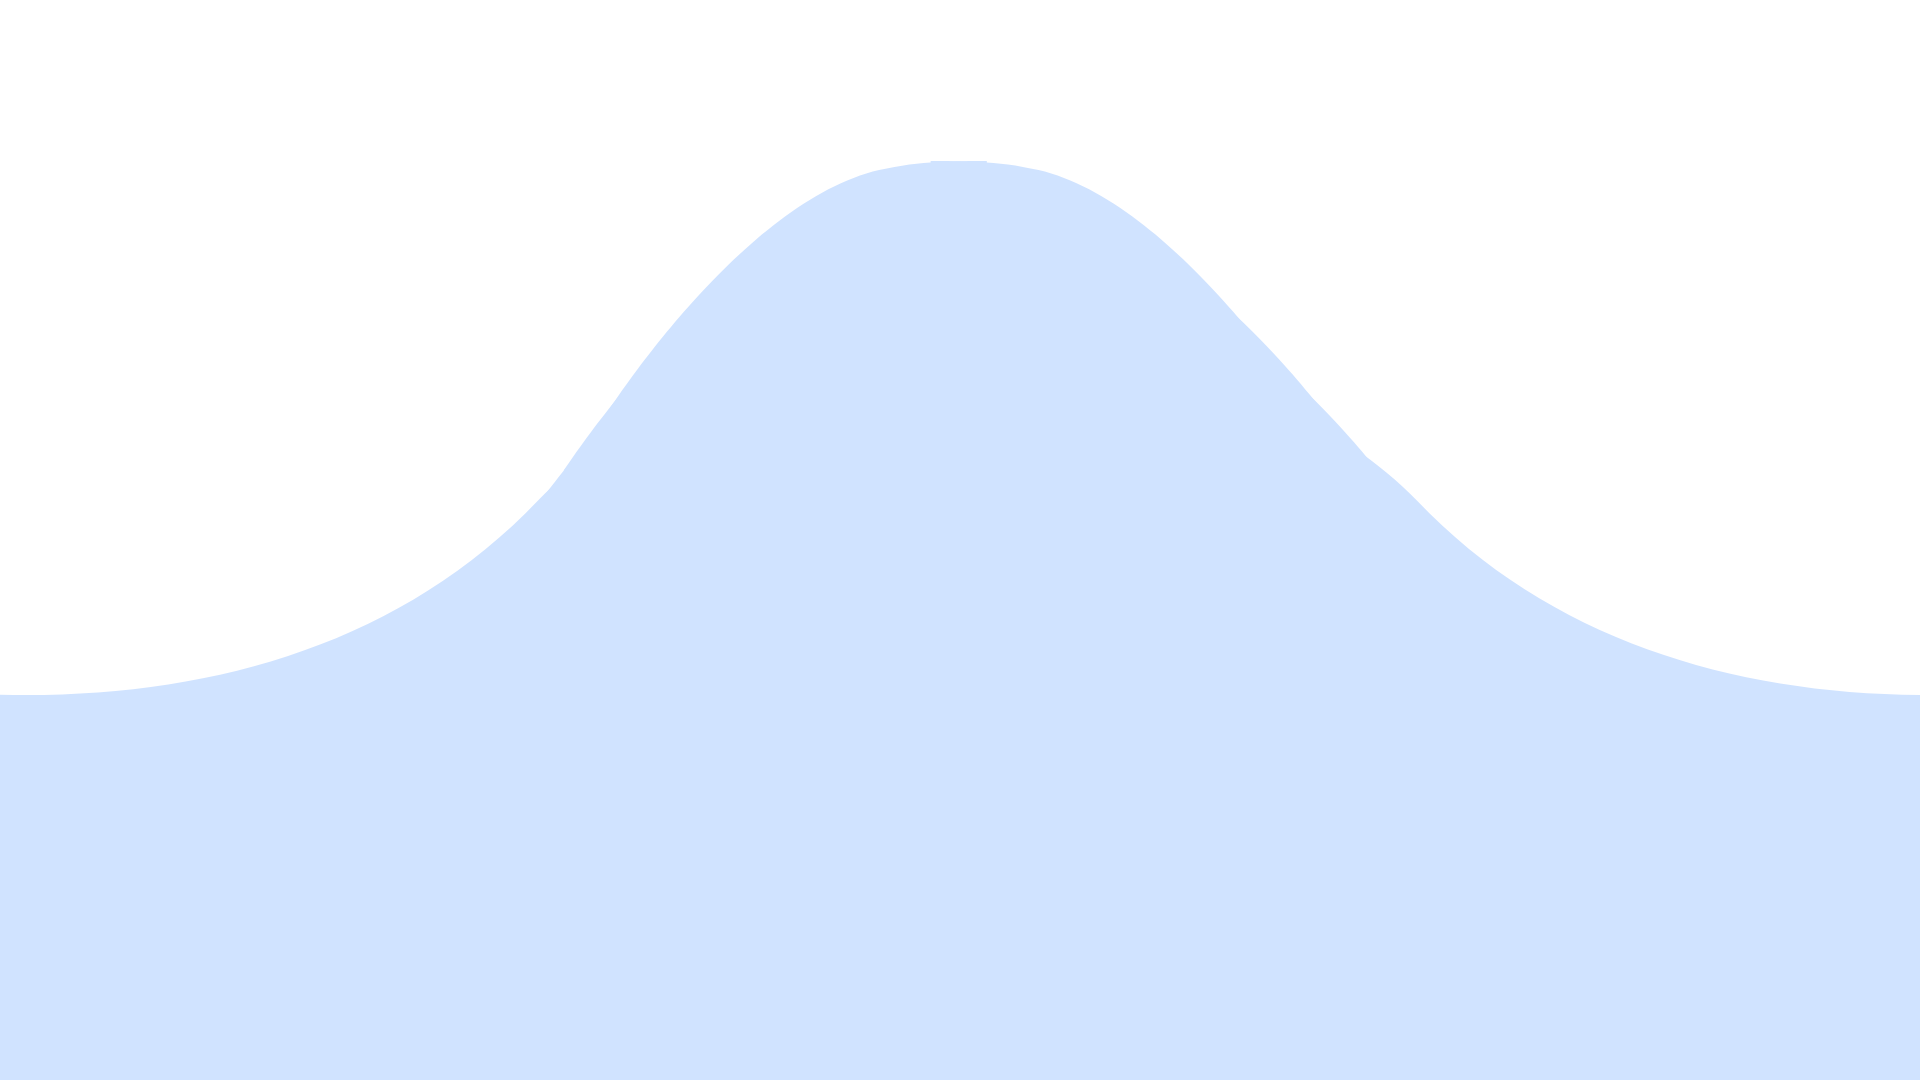
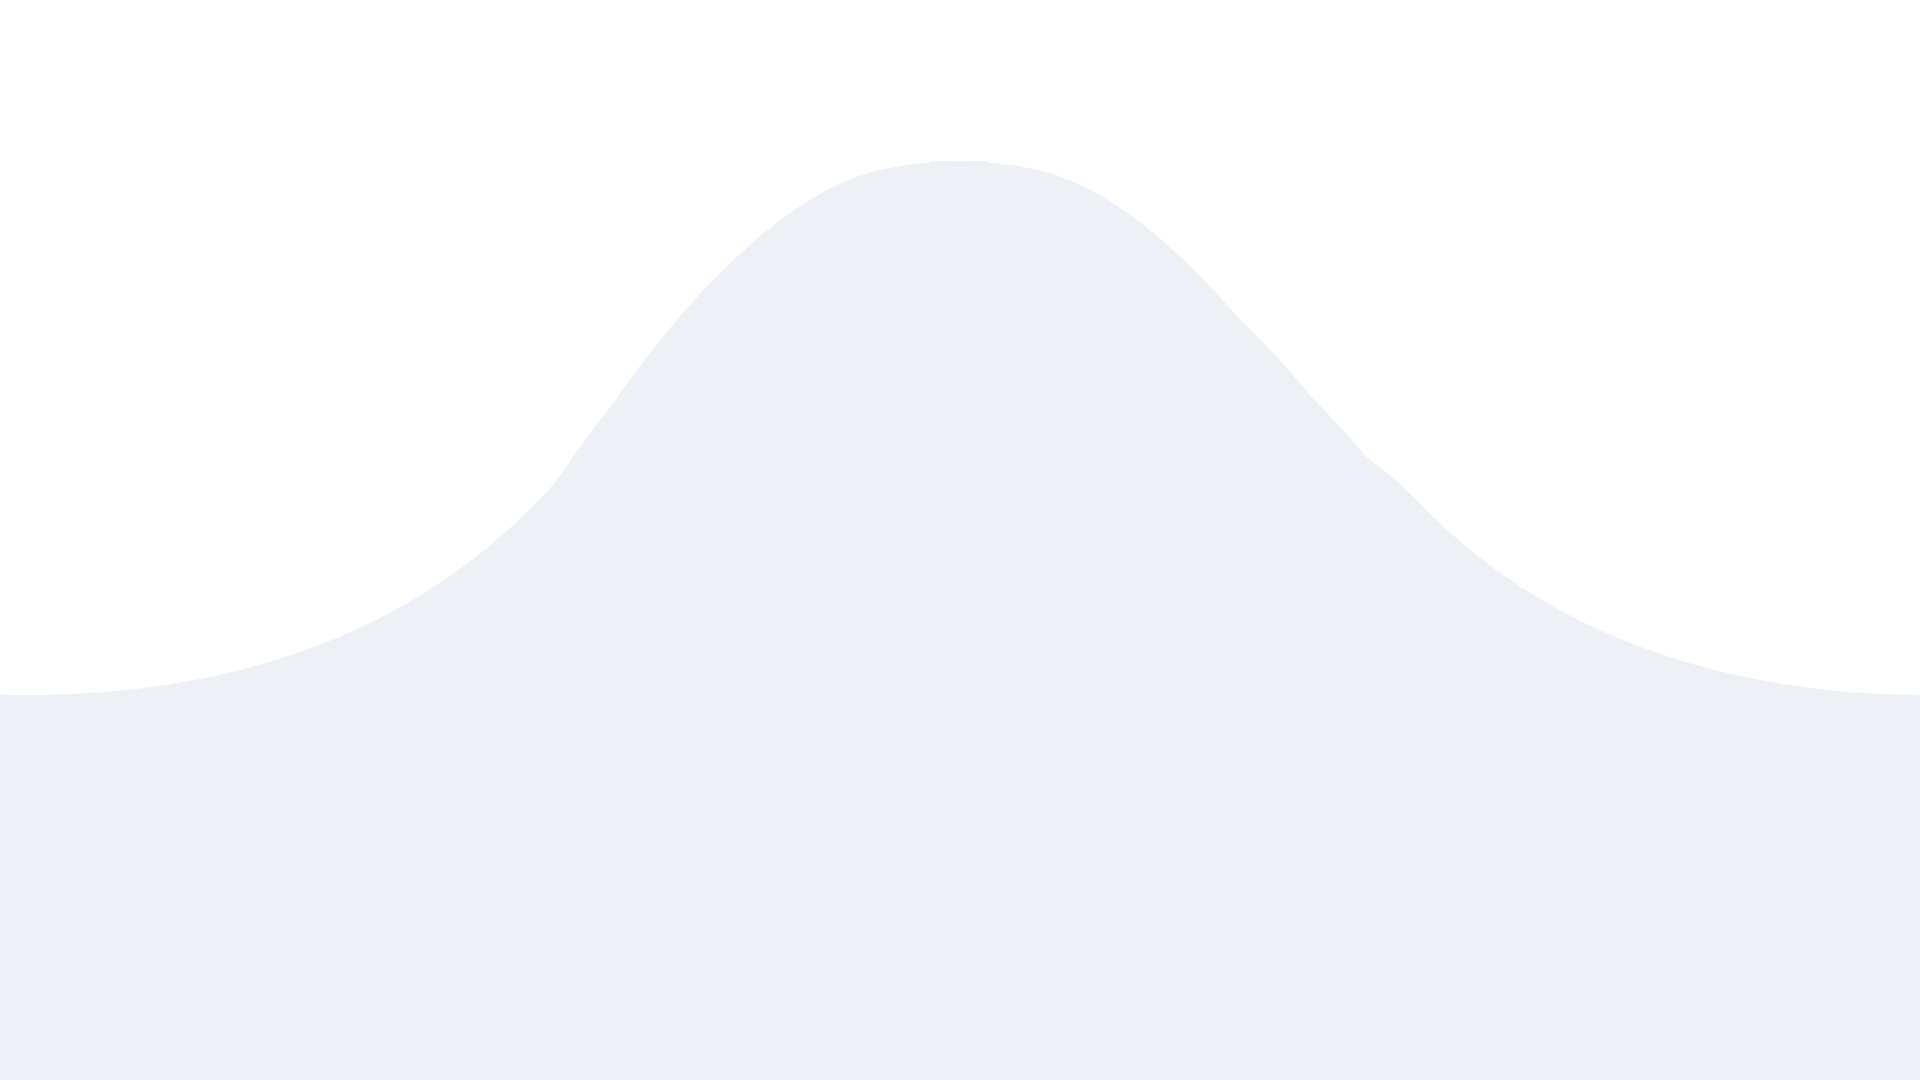
Add files via upload

diff --git a/index.html b/index.html
@@ -10,7 +10,7 @@
     <!-- custom css file link -->
     <link rel="stylesheet" href="css/style.css">
 
-    <title>TITLE HERE BLA BLA BERNARD</title>
+    <title>Cultural/Religious Discrimination</title>
 </head>
 <body>
 
@@ -47,16 +47,13 @@
 <section id="Introduction" class="Introduction">
 
 <h1 class="banner">Cultural/Religious Discrimination</h1>
-<h3 class="slogan">Group 1</h3>
-<a href="#"><button>Get Started</button></a>
+<h3 class="slogan">GROUP 1</h3>
 
 
 <div class="wave wave1"></div>
 <div class="wave wave2"></div>
 <div class="wave wave3"></div>
 
-<div class="fas fa-cog nut1"></div>
-<div class="fas fa-cog nut2"></div>
 
 
 </section>
@@ -69,7 +66,7 @@
 
 <section id="Causes & Effects to Society" class="Causes & Effects to Society">
 
-<h1 class="heading">Introduction</h1>
+<h1 class="heading">INTRODUCTION</h1>
 
 <div class="row">
 
@@ -79,7 +76,7 @@
     </div>
 
     <div class="image">
-        <img src="images/about-image.jpg" alt="">
+        <img src="images/about-image.png" alt="">
     </div>
 
 </div>
@@ -102,22 +99,72 @@
 
 <section id="Solutions & Actions Needed" class="Solutions & Actions Needed">
 
-<h1 class="heading">Causes & Effects to Society</h1>
+<h1 class="heading">CAUSES & EFFECTS TO SOCIETY</h1>
 
 <div class="row">
 
     <div class="image">
-        <img src="images" alt="">
+        <img src="images/bruh3.png" alt="">
+    </div>
+    <div class="content">
+        <h3>What are its causes?</h3>
+        <p>
+            <ul>
+                <li><b>Ignorance and Lack of Understanding:</b> Cultural discrimination often stems from a lack of knowledge and understanding about different cultures. Ignorance can lead to stereotypes, misconceptions, and prejudice.</li>
+                <li><b>Historical Factors:</b> Historical events, conflicts, and power dynamics can contribute to cultural discrimination. Past conflicts, conquests, and colonization have left lasting imprints on societal attitudes toward certain cultures.</li>
+                <li><b>Media Influence:</b> Media plays a significant role in shaping perceptions of different cultures. Stereotypes and biased portrayals in the media can contribute to cultural discrimination by reinforcing negative stereotypes and influencing public opinion.</li>
+                <li><b>Ethnocentrism:</b> Ethnocentrism involves judging other cultures based on the standards and values of one's own culture. This can lead to a perception of one's own culture as superior, fostering discriminatory attitudes towards other cultures.</li>
+            </ul>
+        </p>
     </div>
 
 </div>
 
+<div class="row">
 
-
+    <div class="content">
+        <h3>What are its effects?</h3>
+        <p>
+            <ul>
+                <li><b>Emotional Distress:</b> Racial/ethnic discrimination is linked with a higher risk of depression, anxiety, self-harm, binge drinking, and suicidal ideation among Asian American and Pacific Islander students. Hate crimes against Asian Americans and Pacific Islanders also increased during the pandemic.</li>
+                <li><b>Social Isolation:</b> Discrimination can result in social exclusion, making individuals feel alienated and disconnected from their communities.Those who face discrimination may withdraw from social activities due to fear of mistreatment or prejudice.</li>
+                <li><b>Educational Impact:</b> Discrimination can negatively affect educational attainment and performance due to stress, anxiety, and a lack of support. Some cultural groups may have limited access to quality education, perpetuating cycles of disadvantage.</li>
+                <li><b>Community Tensions:</b> Prolonged cultural discrimination can lead to social tensions, conflicts, and even violence between different cultural groups. Discrimination may contribute to the fragmentation of communities, eroding social cohesion.</li>
+            </ul>
+        </p>
+    </div>
+    <div class="image">
+        <img src="images/bruh2.png" alt="">
+    </div>
+</div>
 
 </section>
 
+<section id="Our Stand for Commitment" class="Our Stand for Commitment">
 
+<h1 class="heading">SOLUTIONS & ACTIONS NEEDED</h1>
+
+<div class="row">
+
+    <div class="image">
+        <img src="images/bruh4.png" alt="">
+    </div>
+    
+    <div class="content">
+        <h3>Education and Awareness</h3>
+        <p>Integrate cultural competency training into curriculum for students, professionals, and community leaders to improve understanding and respect for different cultures. Launch public awareness initiatives to highlight the negative effects of cultural and religious discrimination. </p>
+        <h3>Legal and Policy Measures</h3>
+        <p>Strengthen and implement current anti-discrimination laws in order to protect people from discrimination based on their cultural or religious identities. Develop inclusive policies that encourage diversity and prevent discrimination in sectors such as employment, education, housing, and public services.</p>
+        <h3>Media and Communication</h3>
+        <p>Encourage media outlets to correctly and responsibly portray cultures and religions, avoiding stereotypes and misrepresentations. Advocate for different representation in the media and entertainment industries to guarantee that different ethnic and religious groups are accurately represented. </p>
+        <h3>Community Engagement</h3>
+        <p>Support community-based activities that bring together people from different cultural and religious backgrounds to promote connection and understanding. Create welcoming areas and events that honor cultural variety and religious plurality, building a sense of community among all members.</p>
+    </div>
+
+
+</div>
+
+</section>
 
 
 

diff --git a/css/style.css b/css/style.css
@@ -8,7 +8,7 @@
     font-family: 'Poppins', sans-serif;
     margin:0; padding:0;
     box-sizing: border-box;
-    text-transform: capitalize;
+    text-transform:none;
     transition: all .2s linear;
     text-decoration: none;
 }
@@ -108,7 +108,8 @@ body{
 .Introduction{
     min-height: 100vh;
     width: 100vw;
-    background:linear-gradient(#6C5CE7,var(--color));
+    background-size: cover;
+    background-image: url(../images/bgg.png);
     display: flex;
     align-items: center;
     justify-content: center;
@@ -126,8 +127,8 @@ body{
 }
 
 .Introduction .slogan{
-    color:#eee;
-    font-size: 2.5rem;
+    color:#fff;
+    font-size: 3rem;
     font-weight: 400;
 }
 
@@ -180,28 +181,10 @@ body{
     }
 }
 
-.Introduction .fa-cog{
-    position: absolute;
-    font-size: 30rem;
-    opacity: .15;
-    color: #fff;
-    animation: rotate 10s linear infinite;
-}
 
 
-.Introduction .nut1{
-    top: 10%; left: -15rem;
-}
 
-.Introduction .nut2{
-    bottom: 23%; right: -13rem;
-}
 
-@keyframes rotate{
-    100%{
-        transform: rotate(360deg);
-    }
-}
 
 .Causes{
     min-height: 100vh;
@@ -209,7 +192,7 @@ body{
     text-align: center;
     position: relative;
     overflow: hidden;
-    background-color: #D0E3FF;
+    background: #EDF1F6;
 }
 
 .Causes .row{
@@ -237,6 +220,8 @@ body{
     font-size: 1.5rem;
     color: #333;
     padding: 1rem 0rem;
+    margin-right: 1rem;
+    line-height: 3rem;
 }
 
 .Causes::before, .Causes::after{
@@ -246,26 +231,82 @@ body{
     opacity:.2;
 }
 
-.Causes::before{
-    height:50rem;
-    width:50rem;
-    background:#ccc;
-    bottom:-10rem; left:-10rem;
+
+.Solutions{
+    min-height: 100vh;
+    width:100vw;
+    text-align: center;
+    position: relative;
+    overflow: hidden;
+    background:linear-gradient(#EDF1F6, #D0E3FF);
 }
 
-.Causes::after{
-    height:60rem;
-    width:60rem;
-    background:#6C5CE7;
-    top:-10rem; right:-10rem;
+.Solutions .row{
+    margin: 2rem 0;
+    padding: 0 2rem;
+    display: flex;
+    align-items: center;
+    justify-content: center;
 }
 
+.Solutions .row .image img{
+    width: 30vw;
+}
 
+.Solutions .row .content{
+    text-align: left;
+    padding: 0 3rem;
+    margin-left: 3rem;
+}
 
+.Solutions .row .content h3{
+    font-size: 3rem;
+    color: var(--color);
+}
 
+.Solutions .row .content ul{
+    font-size: 1.5rem;
+    color: #333;
+    padding: 1rem 0rem;
+    line-height: 3rem;
+}
 
+.Our{
+    width:100vw;
+    min-height: 100vh;
+    text-align: center;
+    background:linear-gradient(#D0E3FF, #EDF1F6);
+}
 
+.Our .row{
+    display:block;
+    align-items: center;
+    justify-content: center;
+}
 
+.Our .row .image img{
+    width: 25vw;
+}
+
+.Our .row .content{
+    text-align: left;
+    padding: 0 3rem;
+    margin-left: 3rem;
+    margin-top: 3rem;
+}
+
+.Our .row .content h3{
+    font-size: 3rem;
+    color: var(--color);
+}
+
+.Our .row .content p{
+    font-size: 1.7rem;
+    color: #333;
+    padding: 1rem 0rem;
+    margin-right: 1rem;
+    line-height: 3rem;
+}
 
 
 
